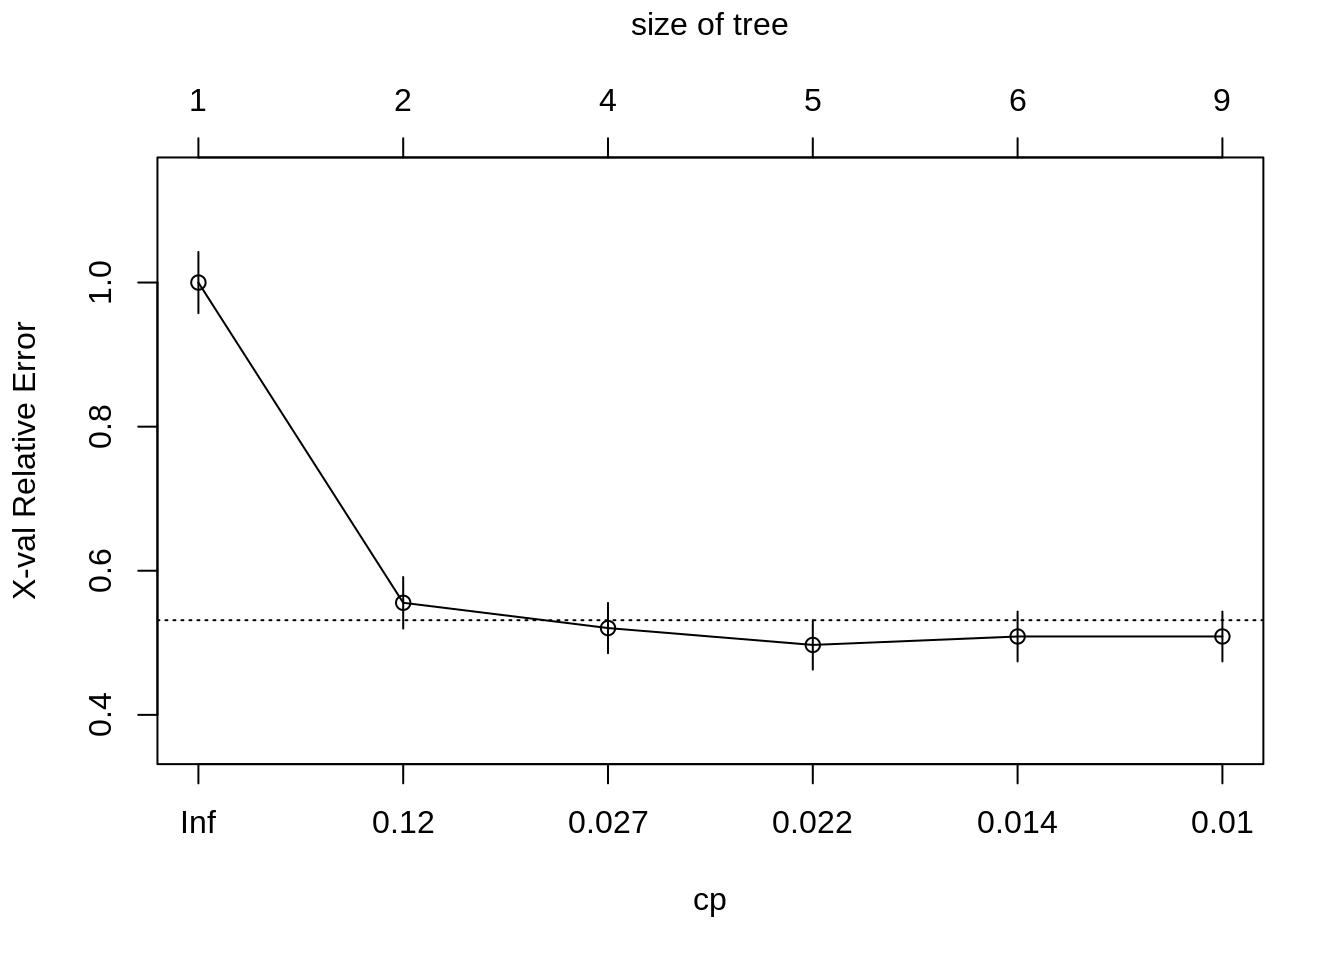
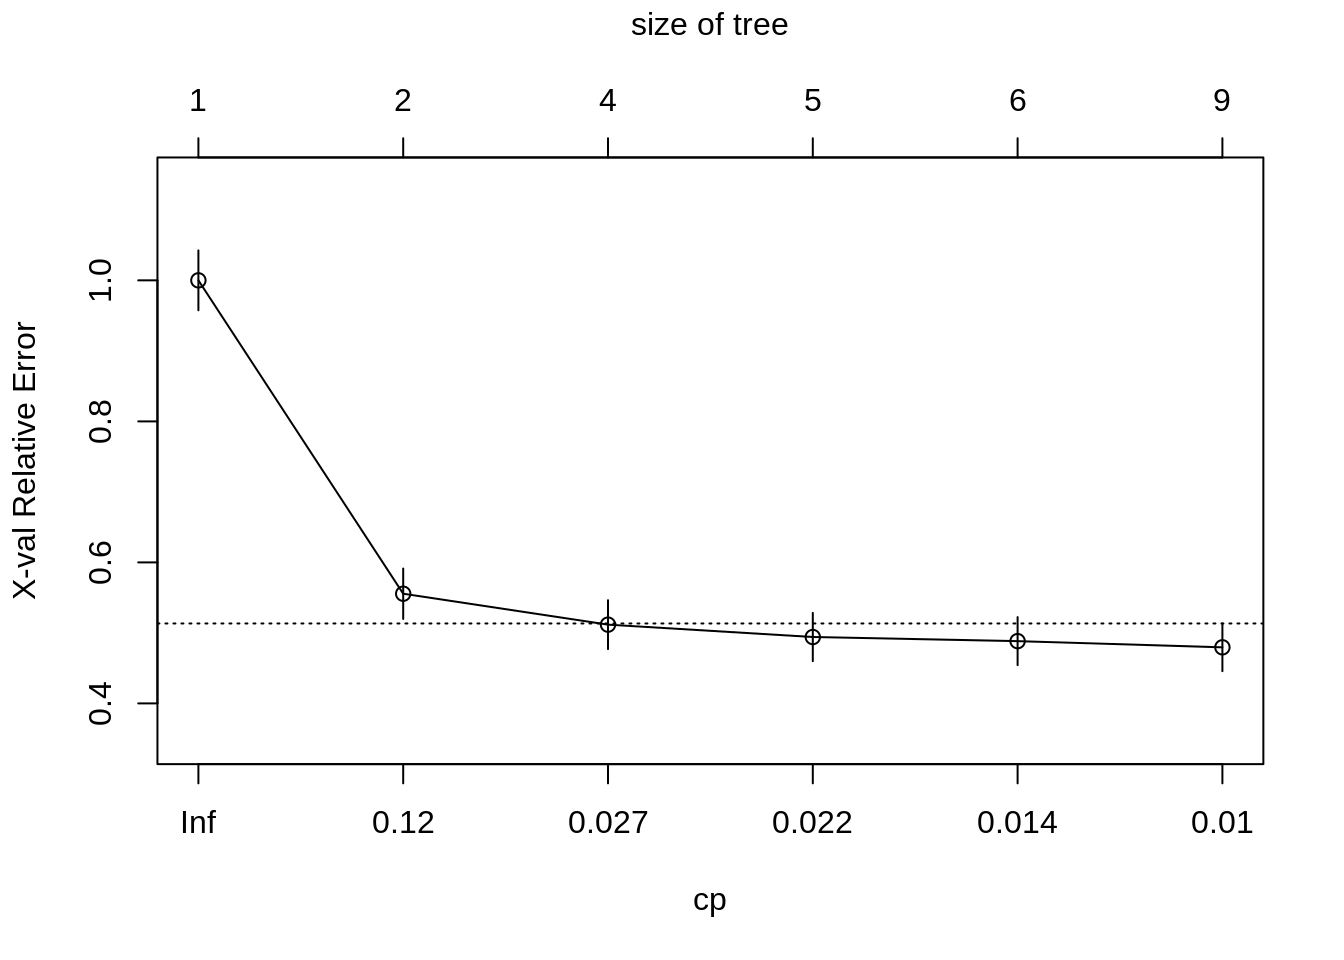
Deploy lebebr01/stat_thinking to github.com/lebebr01/stat_thinking.git:master

diff --git a/docs/classification.html b/docs/classification.html
@@ -324,10 +324,10 @@ titanic &lt;-<span class="st"> </span><span class="kw">bind_rows</span>(titanic_
 ##         CP nsplit rel error  xerror     xstd
 ## 1 0.444444      0   1.00000 1.00000 0.042446
 ## 2 0.030702      1   0.55556 0.55556 0.035750
-## 3 0.023392      3   0.49415 0.52047 0.034897
-## 4 0.020468      4   0.47076 0.49708 0.034295
-## 5 0.010234      5   0.45029 0.50877 0.034599
-## 6 0.010000      8   0.41813 0.50877 0.034599</code></pre>
+## 3 0.023392      3   0.49415 0.51170 0.034675
+## 4 0.020468      4   0.47076 0.49415 0.034217
+## 5 0.010234      5   0.45029 0.48830 0.034061
+## 6 0.010000      8   0.41813 0.47953 0.033824</code></pre>
 <div class="sourceCode"><pre class="sourceCode r"><code class="sourceCode r"><span class="kw">plotcp</span>(class_tree)</code></pre></div>
 <p><img src="05-classification_files/figure-html/unnamed-chunk-6-1.png" width="672" /></p>
 <div class="sourceCode"><pre class="sourceCode r"><code class="sourceCode r">prune_class_tree &lt;-<span class="st"> </span><span class="kw">prune</span>(class_tree, <span class="dt">cp =</span> .<span class="dv">02</span>)

diff --git a/docs/05-classification.md b/docs/05-classification.md
@@ -249,10 +249,10 @@ printcp(class_tree)
 ##         CP nsplit rel error  xerror     xstd
 ## 1 0.444444      0   1.00000 1.00000 0.042446
 ## 2 0.030702      1   0.55556 0.55556 0.035750
-## 3 0.023392      3   0.49415 0.52047 0.034897
-## 4 0.020468      4   0.47076 0.49708 0.034295
-## 5 0.010234      5   0.45029 0.50877 0.034599
-## 6 0.010000      8   0.41813 0.50877 0.034599
+## 3 0.023392      3   0.49415 0.51170 0.034675
+## 4 0.020468      4   0.47076 0.49415 0.034217
+## 5 0.010234      5   0.45029 0.48830 0.034061
+## 6 0.010000      8   0.41813 0.47953 0.033824
 ```
 
 ```r
